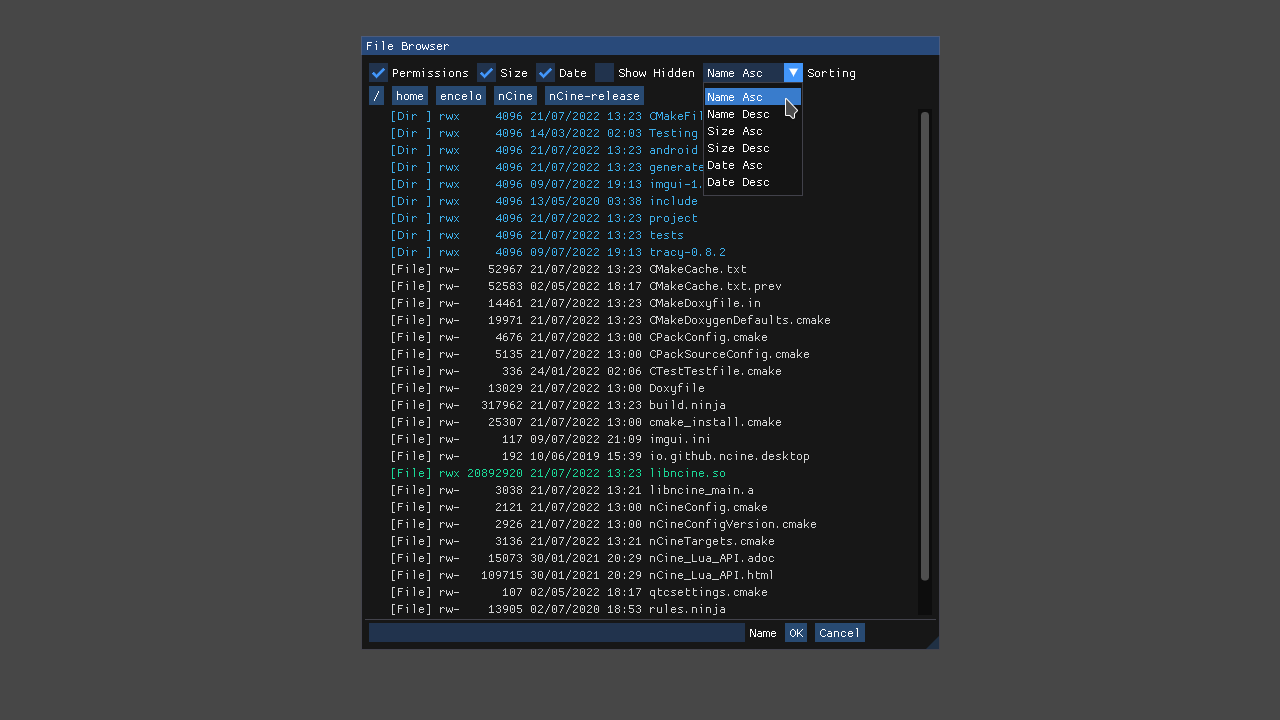
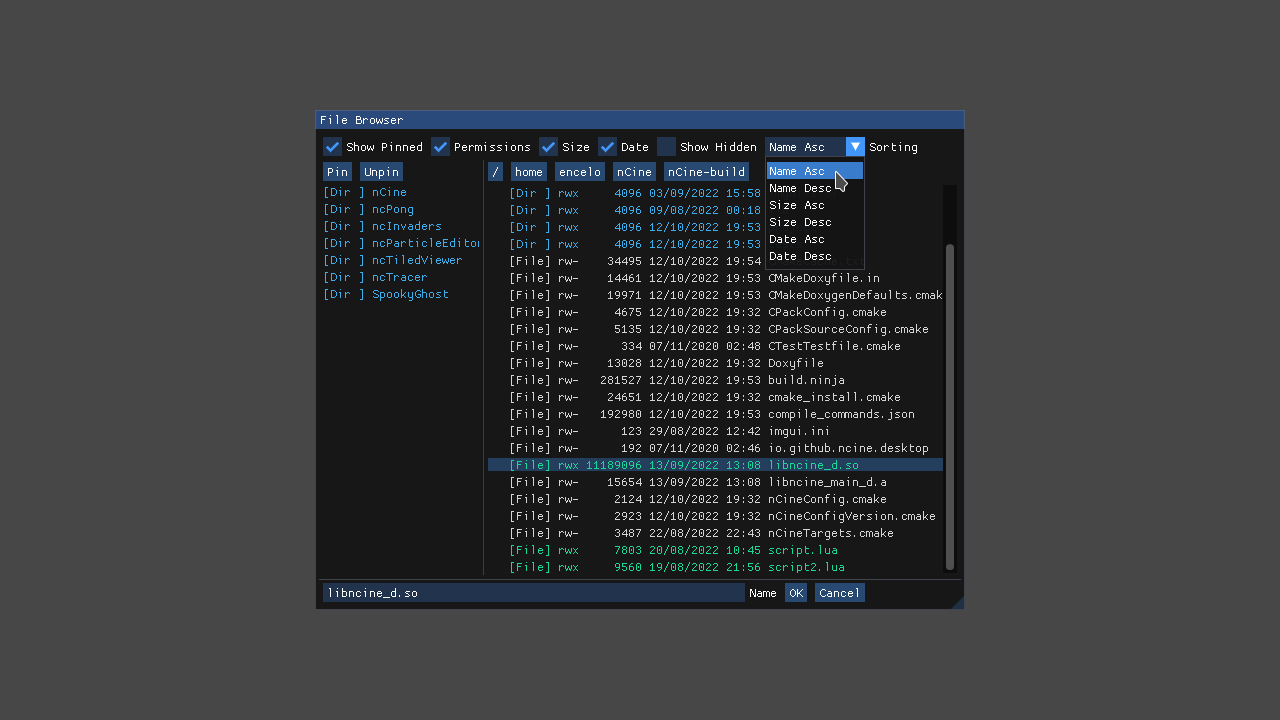
Add two news posts about the latest development
- Add one updated and one new apptest screenshot
- Update the web tests page with one updated and one new apptest
- Add a new video to the videos page
- Update the master branch download page with new changes

Changed region(s): [[0.2188, 0.0306, 0.7812, 0.9167]]

diff --git a/download-master.md b/download-master.md
@@ -6,6 +6,48 @@ permalink: /download-master/
 
 The [master](https://github.com/nCine/nCine/tree/master) branch will be the base for a future release.
 
+## October 2022
+
+### Breaking Changes
+- The `IGfxDevice::setResolution()` method has been removed. Depending on the full screen state, use `setWindowSize()` or `setVideoMode()`
+- The `inFullscreen` and `isResizable` flags of the `AppConfiguration` class have been renamed to `fullScreen` and `resizable`
+- To query the supported video modes, you have to query the list of connected monitors with `IGfxDevice::numMonitors()` and `IGfxDevice::monitor()`
+
+### New Features
+- It is now possible to enumerate connected monitors on all desktop backends
+  - You can now query window scaling and drawable resolution to better support HiDPI monitors
+  - The Lua API has been extended to support the new methods of the `IGfxDevice` class
+  - There is a new `apptest_scaling` application that shows automatic window size scaling
+
+### Improvements
+- Failing to load a file will now never exit the application
+
+### Fixes
+- Various fixes about window size, window position, and full screen
+
+## September 2022
+
+### New Features
+- There is a new `onFilesDropped()` input callback to support drag'n'drop from the system to the application window
+
+### Improvements
+- The JNI helper classes have been refactored to use global references and be more stable and secure
+- Shader programs now detach shaders before deleting them, so they are really deleted and memory is freed
+- The new `NCINE_UNDEFINED_SANITIZER` CMake options adds support for the UBSan of GCC and Clang
+
+### Fixes
+- The Android manifest has been updated to allow compilation on latest Android versions
+
+## August 2022
+
+### Improvements
+- Improvements to `ParticleSystem` and to particle affector classes
+  - It is now possible to add affector steps out of order
+  - A new getter method in `ParticleSystem` allows the manipulation of affectors
+  - Affector steps can be manipulated via a new Lua API
+- A new `AudioStreamPlayer` getter returns the sample offset relative to the whole stream
+- The audio, font, and particles apptests have brand new ImGui interfaces
+
 ## July 2022
 
 ### Breaking Changes
@@ -39,6 +81,7 @@ The [master](https://github.com/nCine/nCine/tree/master) branch will be the base
 - You will never see again errors about reserved OpenGL uniforms or attributes not being found (like `gl_VertexID`)
 - Non-compiling shaders will not fatal assert like they did before
 - Fixes to the methods dealing with vertices and indices of the Lua API of the `MeshSprite` class
+- The `minBatchSize`/`maxBatchSize` rendering settings have been fixed and will not cause flickering when batching
 
 ## June 2022
 

diff --git a/web-tests.md b/web-tests.md
@@ -220,11 +220,14 @@ This test is not interactive and only stresses the object cloning system to high
 
 ![apptest_filebrowser](/img/apptests/apptest_filebrowser.png "apptest_filebrowser"){: .center-block :}
 
-A basic but working file browser based on ImGui, with custom coloring, permissions support, multiple sorting types, file types, and extension filters.<br />
+A basic but working file browser based on ImGui, with a list of pinned directories, custom coloring, permissions support, multiple sorting types, file types, and extension filters.<br />
 The same code is used in [SpookyGhost](https://encelo.itch.io/spookyghost/devlog/132134/new-file-dialog-window) with the addition of icons.
 
-**Controls**: Use the mouse, the keyboard, the gamepad, or the touch screen to interact with the ImGui interface and navigate the filesystem.
-Pressing `Escape` on the keyboard will quit the application.
+**Controls**:
+- Use the mouse, the keyboard, the gamepad, or the touch screen to interact with the ImGui interface and navigate the filesystem.
+- Drag and dropping directories to the pinned list on the left by will add them to the list.
+- Drag and dropping a directory/file to the browser on the right will go to that/the containing directory.
+- Pressing `Escape` on the keyboard will quit the application.
 
 ### apptest_font ([web version](/apptests/apptest_font.html))
 
@@ -347,6 +350,20 @@ A very simple test showing a bunch of sprites rotating, zooming, and moving arou
 - Pressing the right bumper on the gamepad, or the right mouse button, or tapping the screen with two fingers will pause the square sprites formation
 - Pressing `P` on the keyboard or `Start` on the gamepad will pause both the sprite rotation and the square formation
 - Pressing `Escape` on the keyboard or `Guide` on the gamepad will quit the application
+
+### apptest_scaling ([web version](/apptests/apptest_scaling.html))
+
+![apptest_scaling](/img/apptests/apptest_scaling.png "apptest_scaling"){: .center-block :}
+
+A test showing nCine support for the window scale factor of a monitor.
+You can drag around the window on a monitor with a different scale factor to see it automatically resized.
+
+**Controls**:
+- Use the mouse, the keyboard, the gamepad, or the touch screen to interact with the interfaces
+- Pressing `1`, `2`, `3`, or `4` will center the window on the first, second, third or fourth monitor
+- Pressing `5`, `6`, `7`, or `8` will go full screen on the first, second, third or fourth monitor
+- Pressing `CTRL + H` on the keyboard will show or hide the ImGui interfaces
+- Pressing `Escape` on the keyboard will quit the application
 
 ### apptest_scene ([web version](/apptests/apptest_scene.html))
 

diff --git a/videos.md b/videos.md
@@ -70,6 +70,11 @@ Gameplay video of `ncPong`
 ## nCine features
 
 <div class="embed-responsive embed-responsive-16by9">
+  <iframe width="750" height="422" src="https://www.youtube.com/embed/T1XRrK77u6M" frameborder="0" allowfullscreen></iframe>
+</div>
+nCine Custom Shaders Test
+
+<div class="embed-responsive embed-responsive-16by9">
   <iframe width="750" height="422" src="https://www.youtube.com/embed/lPMd8fI99gI" frameborder="0" allowfullscreen></iframe>
 </div>
 Node inspector in the debug overlay interface
@@ -78,6 +83,11 @@ Node inspector in the debug overlay interface
   <iframe width="750" height="422" src="https://www.youtube.com/embed/5g30K6ktEc8" frameborder="0" allowfullscreen></iframe>
 </div>
 `apptest_anchor`, an example about advanced sprite features
+
+<div class="embed-responsive embed-responsive-16by9">
+  <iframe width="750" height="422" src="https://www.youtube.com/embed/2kAoyVvgLyo" frameborder="0" allowfullscreen></iframe>
+</div>
+nCine Custom Memory Allocators Test
 
 <div class="embed-responsive embed-responsive-16by9">
   <iframe width="750" height="422" src="https://www.youtube.com/embed/PpVLD3ShiCw" frameborder="0" allowfullscreen></iframe>

diff --git a/_posts/2022-10-06-ncine-compilation-benchmark-2.md b/_posts/2022-10-06-ncine-compilation-benchmark-2.md
@@ -1,0 +1,8 @@
+---
+layout: post
+title: nCine Compilation Benchmark 2
+subtitle: How long does it take to compile the nCine on my new laptop?
+tags: [Dev Update]
+---
+
+<https://encelo.github.io/2022-10-06-ncine-compilation-benchmark-2/>

diff --git a/_posts/2022-09-07-ncine-dev-update-19.md b/_posts/2022-09-07-ncine-dev-update-19.md
@@ -1,0 +1,8 @@
+---
+layout: post
+title: nCine Dev Update 19
+subtitle: Updates from the second half of January to the end of July 2022
+tags: [Dev Update]
+---
+
+<https://encelo.github.io/2022-09-07-ncine-dev-update-19/>
